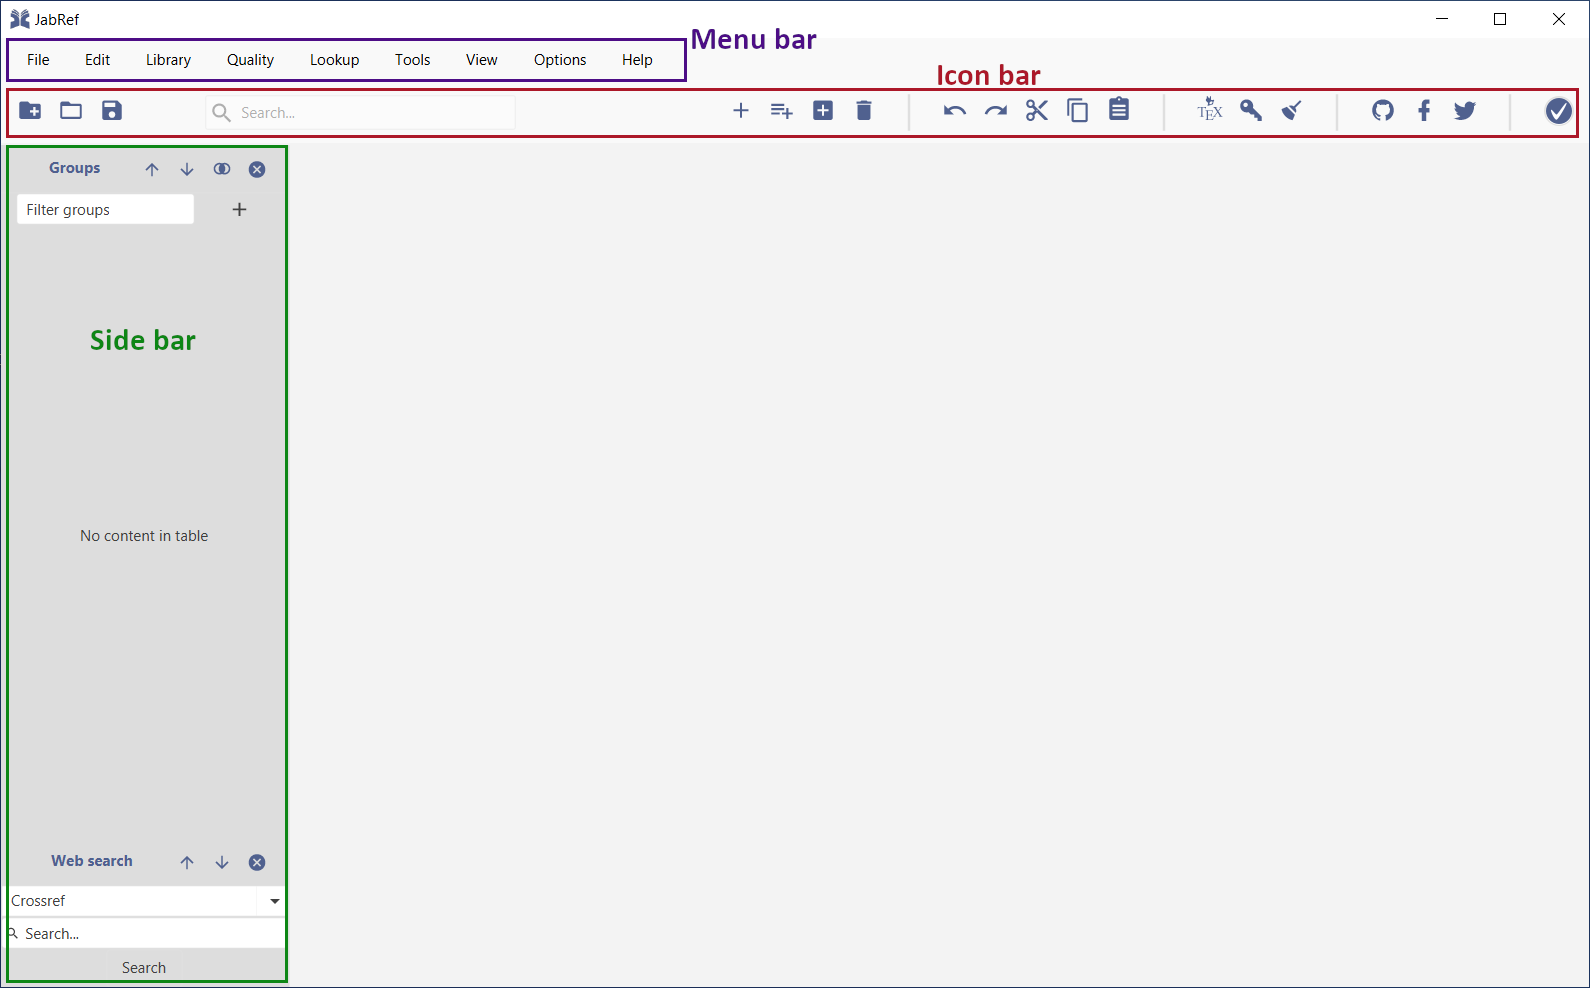
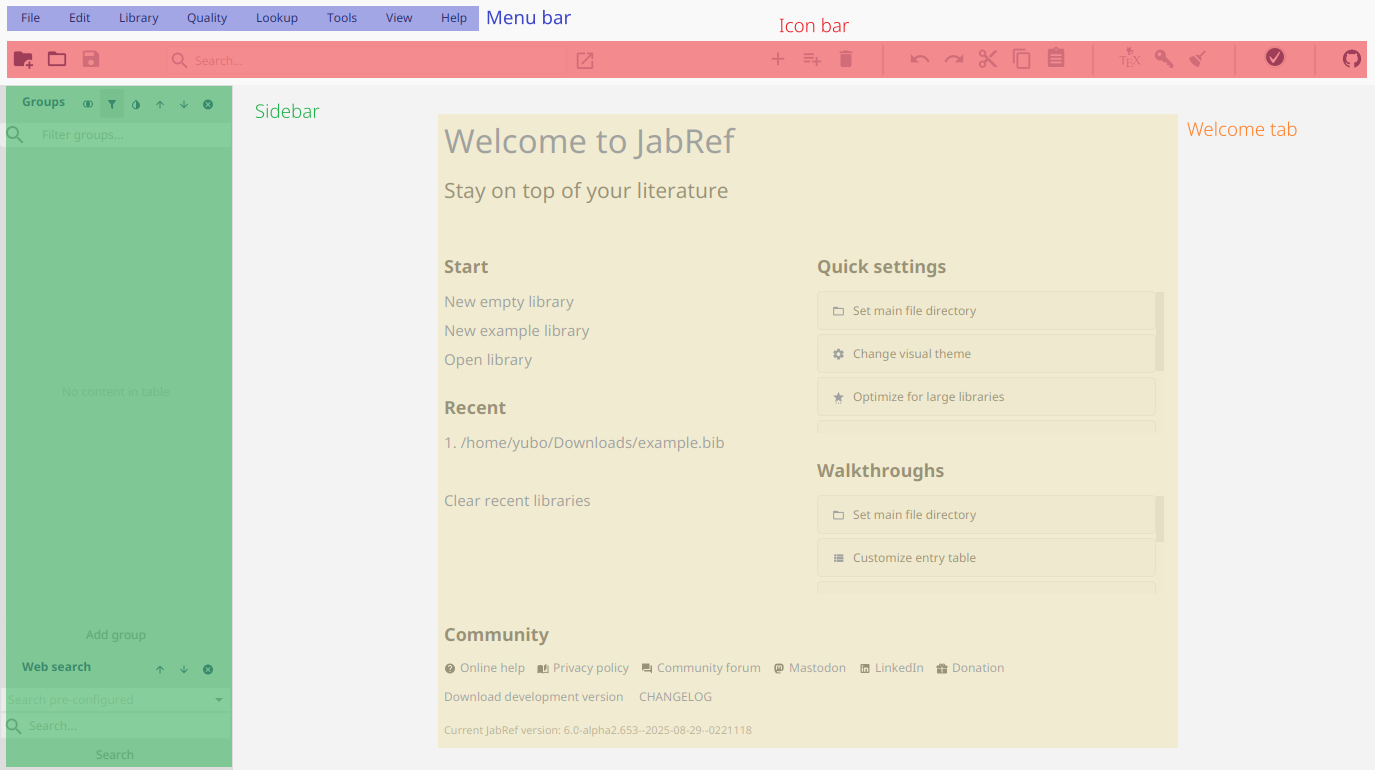
Update getting started documentation to include details about the Welcome Tab. (#588)
* Update getting started documentation to include details about the Welcome Tab.

* remove extra newlines

---------

diff --git a/en/getting-started.md b/en/getting-started.md
@@ -19,6 +19,9 @@ Upon the first start of JabRef the main user interface is showing up the main el
 * Menu bar
 * Icon bar (shortcuts for most frequently used features)
 * Side bar (for groups and web search)
+* The Welcome Tab provides quick actions, common settings, and access to helpful walkthroughs.
+  * Quick settings allow you conveniently specify the [main file directory](https://docs.jabref.org/finding-sorting-and-cleaning-entries/filelinks#directories-for-files), change [themes](https://docs.jabref.org/advanced/custom-themes), enable [large library optimizations](https://docs.jabref.org/faq#q-i-have-a-huge-library.-what-can-i-do-to-mitigate-performance-issues), configure the [entry table](https://docs.jabref.org/advanced/main-window), adjust [online services](https://docs.jabref.org/collect/import-using-online-bibliographic-database), and set up [push to applications](https://docs.jabref.org/cite/pushtoapplications).
+  * The walkthroughs are designed to help you learn and discover JabRef's features, such as changing preferences, searching libraries, linking external files, and organizing entries into groups.
 
 ![Screenshot of main window](<.gitbook/assets/getting-started-main-screen (5).png>)
 
